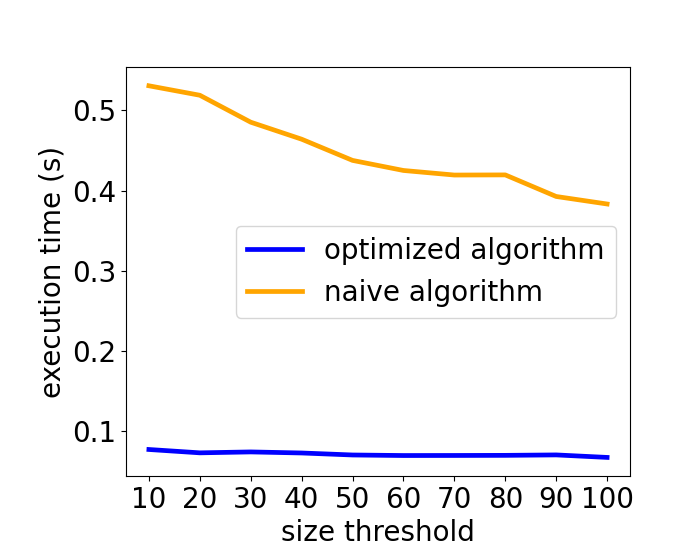
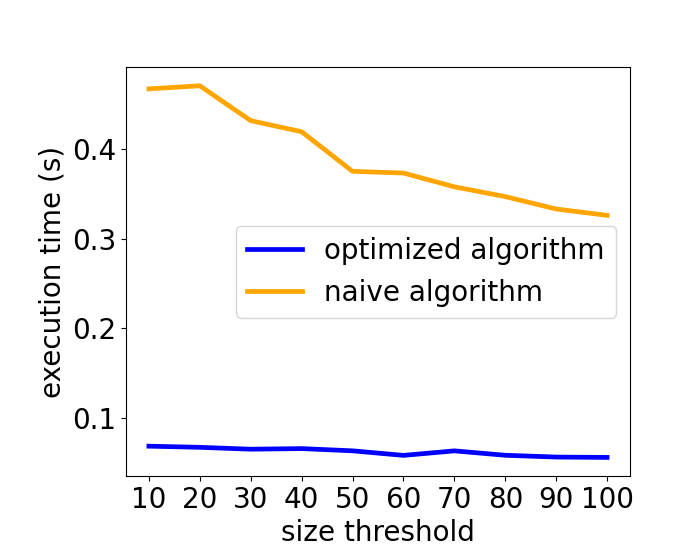
ranking, studentdata, thc

diff --git a/Coding/Experiments/Ranking/StudentData/Thc_0_20210615.py b/Coding/Experiments/Ranking/StudentData/Thc_0_20210615.py
@@ -63,7 +63,7 @@ selected_attributes = ["school", "sex", "age_binary", "address", "famsize", "Pst
 Thc_list = [10, 20, 30, 40, 50, 60, 70, 80, 90, 100]
 k_min = 10
 k_max = 50
-original_data_file = r"../../../../InputData/StudentDataset/ForRanking/student-mat_selected_8att.csv"
+original_data_file = r"../../../../InputData/StudentDataset/ForRanking_0/student-mat_selected_8att.csv"
 ranked_data = pd.read_csv(original_data_file)
 ranked_data = ranked_data.drop('rank', axis=1)
 time_limit = 5*60
@@ -197,7 +197,7 @@ for n in range(len(Thc_list)):
 plt.plot(Thc_list, execution_time1, label="optimized algorithm", color='blue', linewidth = 3.4)
 plt.plot(Thc_list, execution_time2, label="naive algorithm", color='orange', linewidth = 3.4)
 
-plt.xlabel('threshold of cardinality')
+plt.xlabel('size threshold')
 plt.ylabel('execution time (s)')
 plt.xticks([20, 40, 60, 80, 100])
 plt.subplots_adjust(bottom=0.15, left=0.18)
@@ -209,8 +209,8 @@ plt.show()
 fig, ax = plt.subplots()
 plt.plot(Thc_list, num_patterns_visited1, label="optimized algorithm", color='blue', linewidth = 3.4)
 plt.plot(Thc_list, num_patterns_visited2, label="naive algorithm", color='orange', linewidth = 3.4)
-plt.xlabel('threshold of cardinality')
-plt.ylabel('number of nodes visited (K)')
+plt.xlabel('size threshold')
+plt.ylabel('number of patterns visited (K)')
 ax.yaxis.set_major_formatter(FuncFormatter(thousands_formatter))
 
 

diff --git a/Coding/Experiments/Ranking/StudentData/Thc_1_20210701.py b/Coding/Experiments/Ranking/StudentData/Thc_1_20210701.py
@@ -222,6 +222,7 @@ plt.plot(Thc_list, execution_time1, label="optimized algorithm", color='blue', l
 plt.plot(Thc_list, execution_time2, label="naive algorithm", color='orange', linewidth = 3.4)
 
 plt.yscale('log')
+plt.yticks([0.1, 1])
 plt.xlabel('size threshold')
 plt.ylabel('execution time (s)')
 plt.xticks(Thc_list)
